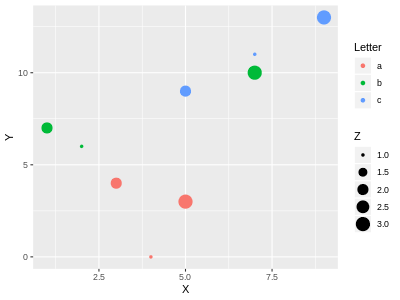
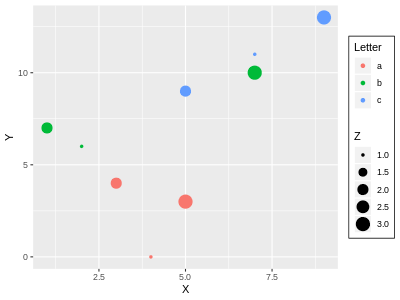
rebuilding site Sun Jan 26 21:42:38 EST 2020

Changed region(s): [[0.87, 0.09, 0.99, 0.81]]

diff --git a/posts/blog_test-hugo_blog/index.html b/posts/blog_test-hugo_blog/index.html
@@ -281,6 +281,15 @@ df.head()
 <pre><code class="language-python">%load_ext rpy2.ipython
 </code></pre>
 
+<div class="output">
+
+<pre><code class="language-nb-output">The rpy2.ipython extension is already loaded. To reload it, use:
+  %reload_ext rpy2.ipython
+</code></pre>
+
+</div>
+
+
 <pre><code class="language-python">%R require(ggplot2)
 </code></pre>
 
@@ -318,7 +327,16 @@ head(df, 3)
 
 <pre><code class="language-r">%%R -i df -w 400 -h 300
 options(repr.plot.width = 1, repr.plot.height = 0.75)
-ggplot(data = df) + geom_point(aes(x = X, y= Y, color = Letter, size = Z))
+thm &lt;- theme(
+    #panel.background = element_rect(fill = &quot;transparent&quot;), # bg of the panel
+    plot.background = element_rect(fill = &quot;transparent&quot;, color = NA), # bg of the plot
+    #panel.grid.major = element_blank(), # get rid of major grid
+    #panel.grid.minor = element_blank(), # get rid of minor grid
+    legend.background = element_rect(fill = &quot;transparent&quot;), # get rid of legend bg
+    legend.box.background = element_rect(fill = &quot;transparent&quot;) # get rid of legend panel bg
+  )
+p &lt;- ggplot(data = df) + geom_point(aes(x = X, y= Y, color = Letter, size = Z))
+p + thm
 </code></pre>
 
 <p><img src="output_29_0.png" alt="png" /></p>

diff --git a/categories/datascience/index.html b/categories/datascience/index.html
@@ -1,7 +1,7 @@
 <!DOCTYPE html>
 <html>
 <head>
-    <title>DataScience // IMTorg Kbase</title>
+    <title>datascience // IMTorg Kbase</title>
 
         <meta charset="utf-8">
     <meta http-equiv="content-type" content="text/html; charset=utf-8">
@@ -9,7 +9,7 @@
     <meta name="description" content="">
     <meta name="keywords" content="">
     <meta name="author" content="">
-        <meta property="og:title" content="DataScience" />
+        <meta property="og:title" content="datascience" />
     <meta property="og:description" content="" />
     <meta property="og:type" content="website" />
     <meta property="og:locale" content="en_US" />
@@ -54,7 +54,7 @@
     <section id="main" class="outer">
         <section class="archives-wrap">
             <div class="archive-category-wrap">
-                <span class="archive-category">DataScience</span>
+                <span class="archive-category">datascience</span>
             </div>
             <div class="archives">
                 

diff --git a/tags/nlp/index.html b/tags/nlp/index.html
@@ -1,7 +1,7 @@
 <!DOCTYPE html>
 <html>
 <head>
-    <title>NLP // IMTorg Kbase</title>
+    <title>nlp // IMTorg Kbase</title>
 
         <meta charset="utf-8">
     <meta http-equiv="content-type" content="text/html; charset=utf-8">
@@ -9,7 +9,7 @@
     <meta name="description" content="">
     <meta name="keywords" content="">
     <meta name="author" content="">
-        <meta property="og:title" content="NLP" />
+        <meta property="og:title" content="nlp" />
     <meta property="og:description" content="" />
     <meta property="og:type" content="website" />
     <meta property="og:locale" content="en_US" />
